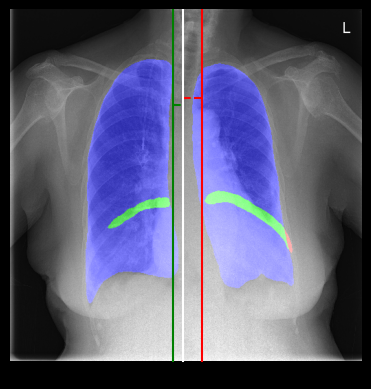
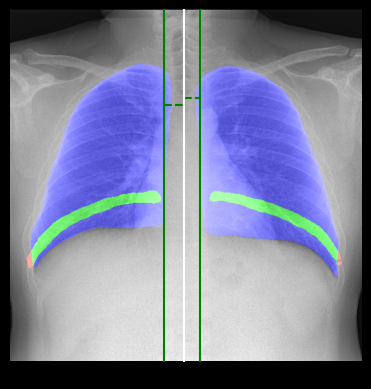
Change Font to Arial

diff --git a/main.py b/main.py
@@ -29,12 +29,8 @@ class Ui_MainWindow(object):
                 #Select button
                 self.select_button = QtWidgets.QPushButton(self.centralwidget)
                 self.select_button.setGeometry(QtCore.QRect(1030, 320, 331, 51))
-                font_dir = os.path.join(os.path.dirname(__file__), 'fonts')
-                font_path = os.path.join(font_dir, 'DBLimX.ttf')
-                if os.path.exists(font_path):
-                        QtGui.QFontDatabase.addApplicationFont(font_path)
-                font = QtGui.QFont("DB Lim X")
-                font.setPointSize(24)
+                font = QtGui.QFont("Arial")
+                font.setPointSize(20)
                 self.select_button.setFont(font)
                 self.select_button.setStyleSheet("color: rgb(200, 200, 200);\n"
         "background-color: rgba(245, 245, 245, 51);")
@@ -42,8 +38,8 @@ class Ui_MainWindow(object):
                 self.analyze_button = QtWidgets.QPushButton(self.centralwidget)
                 self.analyze_button.setGeometry(QtCore.QRect(1030, 380, 331, 51))
                 font = QtGui.QFont()
-                font.setFamily("DB Lim X")
-                font.setPointSize(24)
+                font.setFamily("Arial")
+                font.setPointSize(20)
                 
                 #Analyze button
                 self.analyze_button.setFont(font)
@@ -55,8 +51,8 @@ class Ui_MainWindow(object):
                 self.clear_button = QtWidgets.QPushButton(self.centralwidget)
                 self.clear_button.setGeometry(QtCore.QRect(1030, 440, 331, 51))
                 font = QtGui.QFont()
-                font.setFamily("DB Lim X")
-                font.setPointSize(24)
+                font.setFamily("Arial")
+                font.setPointSize(20)
                 self.clear_button.setFont(font)
                 self.clear_button.setStyleSheet("background-color: rgba(245, 245, 245, 51);\n"
         "color: rgb(200, 200, 200);")
@@ -66,8 +62,8 @@ class Ui_MainWindow(object):
                 self.img = QtWidgets.QLabel(self.centralwidget)
                 self.img.setGeometry(QtCore.QRect(0, -30, 941, 901))
                 font = QtGui.QFont()
-                font.setFamily("DB Lim X")
-                font.setPointSize(28)
+                font.setFamily("Arial")
+                font.setPointSize(24)
                 self.img.setFont(font)
                 self.img.setStyleSheet("color: rgb(0, 0, 0);")
                 self.img.setAlignment(QtCore.Qt.AlignCenter)
@@ -84,10 +80,10 @@ class Ui_MainWindow(object):
                 
                 #ROL
                 self.ROL = QtWidgets.QLabel(self.centralwidget)
-                self.ROL.setGeometry(QtCore.QRect(1190, 530, 211, 61))
+                self.ROL.setGeometry(QtCore.QRect(1185, 525, 226, 65))
                 font = QtGui.QFont()
-                font.setFamily("DB Lim X")
-                font.setPointSize(19)
+                font.setFamily("Arial")
+                font.setPointSize(14)
                 self.ROL.setFont(font)
                 self.ROL.setFocusPolicy(QtCore.Qt.NoFocus)
                 self.ROL.setStyleSheet("color: rgb(0, 0, 0);")
@@ -98,9 +94,10 @@ class Ui_MainWindow(object):
                 
                 #ROL Cutoff
                 self.cutoff_rol = QtWidgets.QLineEdit(self.centralwidget)
-                self.cutoff_rol.setGeometry(QtCore.QRect(1090, 560, 91, 41))
+                self.cutoff_rol.setGeometry(QtCore.QRect(1090, 565, 91, 35))
                 font = QtGui.QFont()
-                font.setPointSize(18)
+                font.setFamily("Arial")
+                font.setPointSize(14)
                 self.cutoff_rol.setFont(font)
                 self.cutoff_rol.setStyleSheet("color: rgb(200, 200, 200)")
                 self.cutoff_rol.setAlignment(QtCore.Qt.AlignCenter)
@@ -108,9 +105,10 @@ class Ui_MainWindow(object):
                 
                 #ROL label
                 self.ROL_label = QtWidgets.QLabel(self.centralwidget)
-                self.ROL_label.setGeometry(QtCore.QRect(990, 560, 101, 41))
+                self.ROL_label.setGeometry(QtCore.QRect(975, 565, 116, 35))
                 font = QtGui.QFont()
-                font.setPointSize(18)
+                font.setFamily("Arial")
+                font.setPointSize(14)
                 font.setBold(False)
                 font.setWeight(50)
                 self.ROL_label.setFont(font)
@@ -119,9 +117,10 @@ class Ui_MainWindow(object):
                 
                 #Lt label
                 self.Lt_Label = QtWidgets.QLabel(self.centralwidget)
-                self.Lt_Label.setGeometry(QtCore.QRect(990, 640, 111, 41))
+                self.Lt_Label.setGeometry(QtCore.QRect(975, 648, 126, 35))
                 font = QtGui.QFont()
-                font.setPointSize(18)
+                font.setFamily("Arial")
+                font.setPointSize(14)
                 font.setBold(False)
                 font.setWeight(50)
                 self.Lt_Label.setFont(font)
@@ -130,9 +129,10 @@ class Ui_MainWindow(object):
                 
                 #Lt Alpha Cutoff
                 self.cutoff_LtAlpha = QtWidgets.QLineEdit(self.centralwidget)
-                self.cutoff_LtAlpha.setGeometry(QtCore.QRect(1110, 640, 71, 41))
+                self.cutoff_LtAlpha.setGeometry(QtCore.QRect(1110, 648, 71, 35))
                 font = QtGui.QFont()
-                font.setPointSize(18)
+                font.setFamily("Arial")
+                font.setPointSize(14)
                 self.cutoff_LtAlpha.setFont(font)
                 self.cutoff_LtAlpha.setStyleSheet("color: rgb(200, 200, 200)")
                 self.cutoff_LtAlpha.setAlignment(QtCore.Qt.AlignCenter)
@@ -140,10 +140,10 @@ class Ui_MainWindow(object):
                 
                 #Lt Alpha
                 self.Lt_Alpha = QtWidgets.QLabel(self.centralwidget)
-                self.Lt_Alpha.setGeometry(QtCore.QRect(1190, 620, 211, 61))
+                self.Lt_Alpha.setGeometry(QtCore.QRect(1185, 615, 226, 65))
                 font = QtGui.QFont()
-                font.setFamily("DB Lim X")
-                font.setPointSize(19)
+                font.setFamily("Arial")
+                font.setPointSize(14)
                 self.Lt_Alpha.setFont(font)
                 self.Lt_Alpha.setFocusPolicy(QtCore.Qt.NoFocus)
                 self.Lt_Alpha.setStyleSheet("color: rgb(0, 0, 0);")
@@ -154,10 +154,10 @@ class Ui_MainWindow(object):
                 
                 #Rt Alpha
                 self.Rt_Alpha = QtWidgets.QLabel(self.centralwidget)
-                self.Rt_Alpha.setGeometry(QtCore.QRect(1200, 700, 201, 61))
+                self.Rt_Alpha.setGeometry(QtCore.QRect(1185, 698, 226, 65))
                 font = QtGui.QFont()
-                font.setFamily("DB Lim X")
-                font.setPointSize(19)
+                font.setFamily("Arial")
+                font.setPointSize(14)
                 self.Rt_Alpha.setFont(font)
                 self.Rt_Alpha.setFocusPolicy(QtCore.Qt.NoFocus)
                 self.Rt_Alpha.setStyleSheet("color: rgb(0, 0, 0);")
@@ -168,9 +168,10 @@ class Ui_MainWindow(object):
                 
                 #Rt label
                 self.Rt_label = QtWidgets.QLabel(self.centralwidget)
-                self.Rt_label.setGeometry(QtCore.QRect(990, 720, 111, 41))
+                self.Rt_label.setGeometry(QtCore.QRect(975, 730, 126, 35))
                 font = QtGui.QFont()
-                font.setPointSize(18)
+                font.setFamily("Arial")
+                font.setPointSize(14)
                 font.setBold(False)
                 font.setWeight(50)
                 self.Rt_label.setFont(font)
@@ -179,9 +180,10 @@ class Ui_MainWindow(object):
                 
                 #Rt Alpha cutoff
                 self.cutoff_RtAlpha = QtWidgets.QLineEdit(self.centralwidget)
-                self.cutoff_RtAlpha.setGeometry(QtCore.QRect(1110, 720, 71, 41))
+                self.cutoff_RtAlpha.setGeometry(QtCore.QRect(1110, 730, 71, 35))
                 font = QtGui.QFont()
-                font.setPointSize(18)
+                font.setFamily("Arial")
+                font.setPointSize(14)
                 self.cutoff_RtAlpha.setFont(font)
                 self.cutoff_RtAlpha.setStyleSheet("color: rgb(200, 200, 200)")
                 self.cutoff_RtAlpha.setAlignment(QtCore.Qt.AlignCenter)
@@ -189,9 +191,10 @@ class Ui_MainWindow(object):
                 
                 #Inspire checkbox
                 self.Inspiration_checkBox = QtWidgets.QCheckBox(self.centralwidget)
-                self.Inspiration_checkBox.setGeometry(QtCore.QRect(970, 530, 141, 20))
+                self.Inspiration_checkBox.setGeometry(QtCore.QRect(970, 530, 200, 32))
                 font = QtGui.QFont()
-                font.setPointSize(20)
+                font.setFamily("Arial")
+                font.setPointSize(16)
                 font.setBold(True)
                 font.setWeight(75)
                 self.Inspiration_checkBox.setFont(font)
@@ -201,9 +204,10 @@ class Ui_MainWindow(object):
                 
                 #Lt checkbox
                 self.Lt_checkBox = QtWidgets.QCheckBox(self.centralwidget)
-                self.Lt_checkBox.setGeometry(QtCore.QRect(970, 620, 141, 20))
+                self.Lt_checkBox.setGeometry(QtCore.QRect(970, 618, 200, 32))
                 font = QtGui.QFont()
-                font.setPointSize(20)
+                font.setFamily("Arial")
+                font.setPointSize(16)
                 font.setBold(True)
                 font.setWeight(75)
                 self.Lt_checkBox.setFont(font)
@@ -213,9 +217,10 @@ class Ui_MainWindow(object):
                 
                 #Rt checkbox
                 self.Rt_checkBox = QtWidgets.QCheckBox(self.centralwidget)
-                self.Rt_checkBox.setGeometry(QtCore.QRect(970, 700, 141, 20))
+                self.Rt_checkBox.setGeometry(QtCore.QRect(970, 698, 200, 32))
                 font = QtGui.QFont()
-                font.setPointSize(20)
+                font.setFamily("Arial")
+                font.setPointSize(16)
                 font.setBold(True)
                 font.setWeight(75)
                 self.Rt_checkBox.setFont(font)
